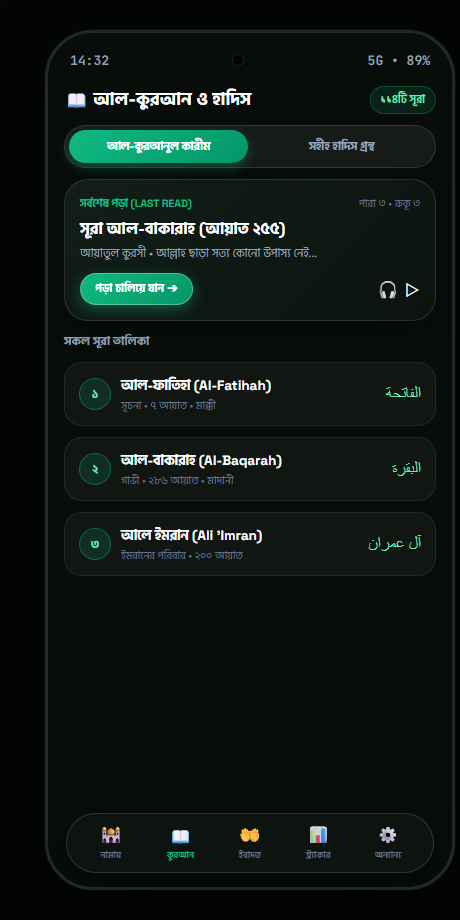
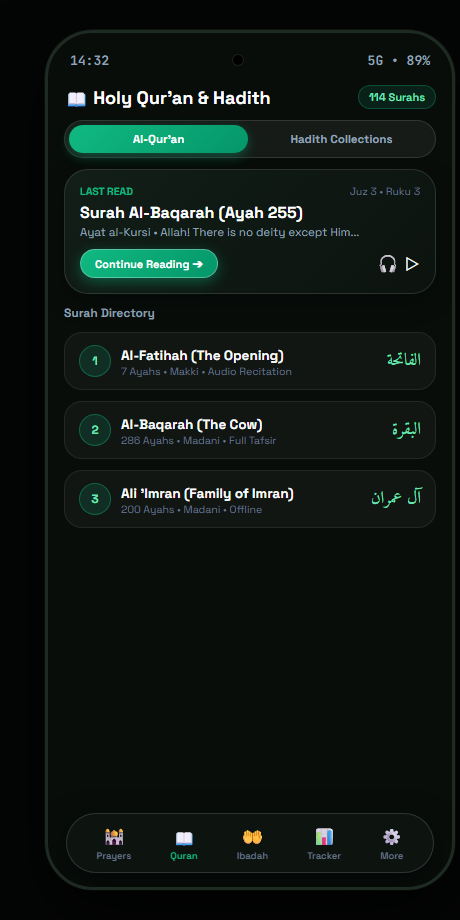
docs(readme): convert entire README and all 7 screenshots to clean English, bump to v2.7.0 (Build 9)

diff --git a/app/src/main/java/com/example/util/AppVersionHelper.kt b/app/src/main/java/com/example/util/AppVersionHelper.kt
@@ -11,14 +11,14 @@ object AppVersionHelper {
         get() = try {
             BuildConfig.VERSION_NAME
         } catch (e: Throwable) {
-            "2.6.0"
+            "2.7.0"
         }
 
     val versionCode: Int
         get() = try {
             BuildConfig.VERSION_CODE
         } catch (e: Throwable) {
-            8
+            9
         }
 
     fun getDisplayVersion(isBangla: Boolean): String {

diff --git a/README.md b/README.md
@@ -1,9 +1,9 @@
 <div align="center">
 
-# 🕌 Namaz Tracker (নামায ট্র্যাকার)
+# 🕌 Namaz Tracker
 ### Modern Offline-First Islamic Companion & Spiritual Habit Tracker for Android
 
-[![Version](https://img.shields.io/badge/version-2.6.0%20(Build%208)-emerald?style=for-the-badge&logo=android)](app/build.gradle.kts)
+[![Version](https://img.shields.io/badge/version-2.7.0%20(Build%209)-emerald?style=for-the-badge&logo=android)](app/build.gradle.kts)
 [![Android](https://img.shields.io/badge/Android-API%2024%20to%2036-green?style=for-the-badge&logo=android)](app/build.gradle.kts)
 [![Kotlin](https://img.shields.io/badge/Kotlin-2.0+-purple?style=for-the-badge&logo=kotlin)](https://kotlinlang.org/)
 [![Jetpack Compose](https://img.shields.io/badge/Jetpack%20Compose-Material%203-blue?style=for-the-badge&logo=jetpackcompose)](https://developer.android.com/jetpack/compose)
@@ -18,77 +18,78 @@
 
 ---
 
-## 📱 App Screenshots (প্রতিটি ট্যাবের ভিজ্যুয়াল প্রিভিউ)
+## 📱 App Screenshots (Per-Tab Visual Showcase)
 
-| 🕌 নামায ও ওয়াক্ত ট্র্যাকার | 📖 আল-কুরআন ও হাদিস | 🤲 ইবাদত ও আমল |
+| 🕌 Daily Prayers & Waqt | 📖 Holy Qur'an & Hadith | 🤲 Ibadah & Tasbih |
 | :---: | :---: | :---: |
-| <img src="docs/screenshots/01_namaz_tab.png" width="280" alt="Namaz Tab Screenshot" /> | <img src="docs/screenshots/02_quran_hadith_tab.png" width="280" alt="Quran and Hadith Tab Screenshot" /> | <img src="docs/screenshots/03_ibadah_tab.png" width="280" alt="Ibadah and Tasbih Tab Screenshot" /> |
-| **১. নামায ট্যাব (Home)**<br/>চলতি সক্রিয় ওয়াক্ত, লাইভ রিভার্স কাউন্টডাউন ও ৫ ওয়াক্তের এক-ট্যাপ স্ট্যাটাস লগ | **২. কুরআন ও হাদিস ট্যাব**<br/>১১৪টি পূর্ণাঙ্গ সূরা, অডিও তিলাওয়াত, বাংলা অনুবাদ ও সহীহ হাদিস গ্রন্থ | **৩. ইবাদত ও আমল ট্যাব**<br/>ডিজিটাল হ্যাপটিক তাসবীহ, ৩৬০° কিবলা কম্পাস ও মাসনূন দোআ |
+| <img src="docs/screenshots/01_namaz_tab.png" width="280" alt="Prayers Tab Screenshot" /> | <img src="docs/screenshots/02_quran_hadith_tab.png" width="280" alt="Quran and Hadith Tab Screenshot" /> | <img src="docs/screenshots/03_ibadah_tab.png" width="280" alt="Ibadah and Tasbih Tab Screenshot" /> |
+| **1. Prayers Tab (Home)**<br/>Active Waqt hero card, live countdown timer, one-tap status logging (Jama'at / Alone), and 5 daily prayers | **2. Qur'an & Hadith Tab**<br/>Complete 114 Surahs offline, Arabic text, translations, last read bento card & authentic Hadith books | **3. Ibadah & Dhikr Tab**<br/>Tactile haptic digital Tasbih dial (33/100 milestones), 360° Qibla compass & authentic Masnoon Duas |
 
 <br/>
 
-| 📊 আমলনামা ও ট্র্যাকার | ⚙ সেটিংস ও স্মার্ট আজান | 📱 নাথিং ওএস উইজেট স্যুট |
+| 📊 Habits & Analytics | ⚙ Settings & Smart Azan | 📱 Nothing OS Home Widgets |
 | :---: | :---: | :---: |
-| <img src="docs/screenshots/04_tracker_tab.png" width="280" alt="Tracker & Analytics Tab Screenshot" /> | <img src="docs/screenshots/05_more_tab.png" width="280" alt="Settings & Azan Tab Screenshot" /> | <img src="docs/screenshots/06_home_widgets.png" width="280" alt="Nothing OS Home Screen Widgets Screenshot" /> |
-| **৪. ট্র্যাকার ও এনালাইটিক্স**<br/>ধারাবাহিকতার স্ট্রিক, সাপ্তাহিক নামায চার্ট ও লাইফটাইম কাযা ডেট ট্র্যাকার | **৫. সেটিংস ও স্মার্ট আজান**<br/>অফলাইন আজান অডিও, মুয়াজ্জিন চয়েস ও ওয়ান-ট্যাপ JSON ডাটা ব্যাকআপ | **৬. হোম স্ক্রিন উইজেট স্যুট**<br/>Nothing OS ডট-অ্যাকসেন্ট সমৃদ্ধ ৪টি ভিন্ন সাইজের কাস্টমাইজড উইজেট |
+| <img src="docs/screenshots/04_tracker_tab.png" width="280" alt="Habits and Analytics Tab Screenshot" /> | <img src="docs/screenshots/05_more_tab.png" width="280" alt="Settings and Azan Tab Screenshot" /> | <img src="docs/screenshots/06_home_widgets.png" width="280" alt="Nothing OS Home Screen Widgets Screenshot" /> |
+| **4. Tracker & Analytics**<br/>21-day consistency streak, weekly completion bar chart, and lifetime Qaza debt counter | **5. Settings & Smart Azan**<br/>Offline Azan foreground service, Muezzin selection (Makkah/Madinah) & one-tap JSON backup | **6. Home Screen Widgets Suite**<br/>4 Nothing OS-inspired Frosted Glass widgets (Active Waqt, 5-Waqt board, Ramadan & Hadith) |
 
 ---
 
-## 🌟 মূল বৈশিষ্ঠ্যসমূহ (Key Features)
+## 🌟 Key Features
 
-### 🕌 ১. ৫ ওয়াক্ত নামায ট্র্যাকার ও লাইভ কাউন্টডাউন
-- **সঠিক ওয়াক্ত গণনা:** বাংলাদেশের সকল জেলা ও বৈশ্বিক জিপিএস কো-অর্ডিনেট অনুযায়ী হানাফী ও শাফেয়ী উভয় মাযহাবে ওয়াক্তের নির্ভুল হিসাব।
-- **এক-ট্যাপ স্ট্যাটাস লগিং:** জামাআত, একা আদায়, কাজা, কিংবা মিসড—ইনস্ট্যান্ট ট্যাপে লগ সংরক্ষণ।
-- **স্মার্ট আজান সার্ভিস:** ওয়াক্ত হওয়ার সাথে সাথে ব্যাকগ্রাউন্ড অডিও আজান ও নোটিফিকেশনে ইনস্ট্যান্ট **'স্টপ আজান'** বোতাম।
+### 🕌 1. Daily 5 Waqt Prayer Tracker & Live Countdown
+- **Accurate Astronomical Calculation:** Dynamic prayer times for all 64 districts of Bangladesh and global GPS coordinates supporting Hanafi and Shafi'i calculation methods.
+- **One-Tap Status Logging:** Record prayer status instantly as *Jama'at*, *Alone*, *Late*, *Qaza*, or *Missed*.
+- **Smart Background Azan Service:** Foreground media playback service with real embedded offline audio (Makkah & Madinah) and an interactive **Stop Azan** notification action.
 
-### 📖 ২. সম্পূর্ণ আল-কুরআনুল কারীম ও সহীহ হাদিস
-- **১১৪টি পূর্ণাঙ্গ সূরা:** আরবি আয়াত, সহজ বাংলা অনুবাদ, ইংরেজি অর্থ এবং বাংলা উচ্চারণ (ট্রান্সলিটারেশন)।
-- **লাস্ট রিড রিজ্যুম:** যেকোনো সময় অ্যাপ খুলে পূর্বে যেখানে পড়া শেষ করেছিলেন সেখান থেকেই পুনরায় শুরু করার সুবিধা।
-- **৮টি বৃহৎ সহীহ হাদিস গ্রন্থ:** সহীহুল বুখারী, সহীহ মুসলিম, সুনান আন-নাসায়ী, আবু দাউদ, জামে আত-তিরমিযী, ইবনে মাজাহ, মুয়াত্তা মালিক ও মুসনাদে আহমাদ।
+### 📖 2. Complete Al-Qur'an & Authentic Hadith Library
+- **Complete 114 Surahs Offline:** Full Quranic text stored locally in SQLite Room DB with English and Bengali translations and phonetic transliterations.
+- **Last Read Resume:** Instant jump-back card to continue reciting from your exact last position.
+- **8 Major Hadith Collections:** Sahih al-Bukhari, Sahih Muslim, Sunan an-Nasa'i, Sunan Abi Dawud, Jami' at-Tirmidhi, Sunan Ibn Majah, Muwatta Malik, and Musnad Ahmad.
 
-### 🤲 ৩. ডিজিটাল হ্যাপটিক তাসবীহ ও কিবলা কম্পাস
-- **স্পর্শীয় হ্যাপটিক কাউন্টার:** ৩৩ ও ১০০ চক্রে বিশেষ ভাইব্রেশন ও স্প্রিং অ্যানিমেশন।
-- **রিয়েল-টাইম সেন্সর কম্পাস:** ডিভাইসের ম্যাগনেটিক সেন্সর ব্যবহার করে পবিত্র কাবা শরীফের সঠিক দিকনির্দেশনা।
-- **মাসনূন দোআ ও রমজান টাইমার:** দৈনন্দিন প্রয়োজনীয় দোআ এবং সাহরী ও ইফতারের রিয়েল-টাইম কাউন্টডাউন।
+### 🤲 3. Tactile Haptic Tasbih & Qibla Compass
+- **Haptic Digital Counter:** Responsive touch-down spring animations with custom vibration milestone pulses at 33 and 100 counts.
+- **Real-Time Sensor Compass:** Device magnetometer-driven 3D compass pointing accurately toward the Holy Kaaba in Makkah.
+- **Masnoon Duas & Ramadan Fasting:** Daily Fortress of the Muslim supplications and Sehri & Iftar countdown timer.
 
-### 📱 ৪. নাথিং ওএস ও আইওএস গ্লাস মাল্টি-উইজেট স্যুট (Home Screen Widgets)
-1. **চলতি ওয়াক্ত ক্যাপসুল (৪x১ / ২x১):** বর্তমান নামাজের নাম, সময় ও লাইভ রিমেইনিং কাউন্টডাউন।
-2. **৫ ওয়াক্ত নামাজের বোর্ড (৪x২):** এক নজরে পাঁচ ওয়াক্তের পূর্ণ সময়সূচী ও বর্তমান ওয়াক্তের গ্লোয়িং ফ্রস্টেড পিল হাইলাইট।
-3. **মাহে রমজান টাইমার (৪x২ / ৩x২):** আজকের সেহরি ও ইফতারের সঠিক সময় এবং অবশিষ্ট কাউন্টডাউন।
-4. **দৈনিক হাদিস রিডার (৪x২):** হোম স্ক্রিনে উইজেটের উপর থেকেই **'নতুন হাদিস ↻'** বোতামে এক ট্যাপে নতুন হাদিস পড়ার সুবিধা।
+### 📱 4. Nothing OS & iOS Frosted Glass Widgets Suite
+1. **Active Waqt Capsule (4x1 & 2x1):** Current prayer name, prayer time, and live reverse countdown with Nothing OS pulsating dot.
+2. **5-Waqt Daily Board (4x2):** Full daily prayer timetable with an emerald glowing frosted pill highlight on the active prayer.
+3. **Ramadan Fasting Timer (4x2 / 3x2):** Today's Sehri end time and Iftar time with live countdown dock.
+4. **Interactive Hadith Reader (4x2):** Daily authentic Hadith with an interactive in-widget **Next Hadith ↻** shuffle button.
 
-### 🔒 ৫. শতভাগ অফলাইন ও ডাটা প্রাইভেসি
-- **১০০% অন-ডিভাইস:** কোনো অ্যাকাউন্ট বা ক্লাউড সার্ভার ট্র্যাকিং নেই। আপনার যাবতীয় আমল ডিভাইসেই সুরক্ষিত।
-- **JSON ব্যাকআপ ও রিস্টোর:** এক ক্লিকে সম্পূর্ণ ডাটাবেজ ব্যাকআপ ফাইল ডাউনলোড ও নতুন ফোনে রিস্টোর করার সুবিধা।
+### 🔒 5. 100% Offline-First & Privacy-Focused
+- **Zero Cloud Tracking:** All logs, prayers, and personal reflections remain 100% on your device with no required accounts or analytics tracking.
+- **One-Tap JSON Backup & Restore:** Export your complete spiritual habit database to a local JSON file and restore it anytime on any device.
 
 ---
 
-## 🛠 টেকনিক্যাল স্পেসিফিকেশন (Tech Stack)
+## 🛠 Technical Specifications (Tech Stack)
 
-| উপাদান | প্রযুক্তি |
+| Component | Specification |
 | :--- | :--- |
-| **ভাষা (Language)** | Kotlin 2.0+ |
-| **ইউআই ফ্রেমওয়ার্ক (UI Toolkit)** | Jetpack Compose (Material 3 + Custom iOS Frosted Glass Primitives) |
-| **ডিজাইন সিস্টেম** | iOS Frosted Glassmorphism (`IosGlassPill.kt`) & Nothing OS Dot-Matrix Widgets |
-| **আর্কিটেকচার** | Clean Architecture + MVVM + StateFlow |
-| **লোকাল ডাটাবেজ** | AndroidX Room Database 2.6.1 (`namaz_tracker.db` prepackaged SQLite) |
-| **ব্যাকগ্রাউন্ড সার্ভিস** | Foreground Media Playback Service (`AzanPlaybackService.kt`) |
-| **টেস্টিং ফ্রেমওয়ার্ক** | Robolectric 4.16+, JUnit4, Compose UI Test Rule |
-| **প্যাকেজ নেম** | `com.namaztracker.app` |
+| **Language** | Kotlin 2.0+ |
+| **UI Toolkit** | Jetpack Compose (Material 3 + Custom iOS Frosted Glass Primitives) |
+| **Design System** | iOS Frosted Glassmorphism (`IosGlassPill.kt`) & Nothing OS Dot-Matrix Widgets |
+| **Architecture** | Clean Architecture + MVVM + StateFlow |
+| **Database** | AndroidX Room Database 2.6.1 (Pre-packaged asset `namaz_tracker.db`) |
+| **Background Service** | Foreground Media Playback Service (`AzanPlaybackService.kt`) |
+| **Testing** | Robolectric 4.16+, JUnit4, Compose UI Test Rule (`createComposeRule`) |
+| **Package Name** | `com.namaztracker.app` |
+| **Target SDK** | Android 14/15+ (API 36, minSdk 24) |
 
 ---
 
-## 🚀 ইনস্টলেশন ও রান করার নিয়ম
+## 🚀 Getting Started & Installation
 
-1. রিপোজিটরিটি ক্লোন করুন:
+1. Clone the repository:
    ```bash
    git clone -b android https://github.com/Muhit47/namaz-tracker.git
    ```
-2. **Android Studio** (Koala / Ladybug বা লেটেস্ট) দিয়ে প্রজেক্টটি ওপেন করুন।
-3. গ্রেডল সিঙ্ক শেষ হওয়া পর্যন্ত অপেক্ষা করুন।
-4. কানেক্টেড অ্যান্ড্রয়েড ফোন অথবা এমুলেটরে (Android 8.0+ / API 24+) রান করুন।
+2. Open the project in **Android Studio** (Koala / Ladybug or newer recommended).
+3. Allow Gradle to sync dependencies.
+4. Run the app on a physical Android device or emulator running **Android 8.0 (API 24)** or higher.
 
 ---
 
-## 📜 লাইসেন্স (License)
-বিশ্বব্যাপী মুসলিম ভাই-বোনদের দৈনন্দিন ইবাদতের সহায়তায় উন্মুক্ত সোর্সকৃত। [MIT License](LICENSE)-এর অধীনে লাইসেন্সপ্রাপ্ত।
+## 📜 License
+Developed with devotion for Muslims worldwide. Licensed under the [MIT License](LICENSE).

diff --git a/Plan.md b/Plan.md
@@ -1,7 +1,7 @@
 # Project Plan & Roadmap (Plan) - Namaz Tracker (নামায ট্র্যাকার)
-**App Version:** `v2.6.0` (Build 8)  
+**App Version:** `v2.7.0` (Build 9)  
 **Branch:** `android`  
-**Latest Remote Commit:** `d91a9eb`
+**Latest Remote Commit:** `41985ea`
 
 ---
 
@@ -17,7 +17,7 @@
 
 | ID | Area | Acceptance Criterion | Verification Method |
 |:---|:---|:---|:---|
-| **AC-1** | App Versioning | `app/build.gradle.kts` specifies `applicationId = "com.namaztracker.app"`, `versionCode = 8` and `versionName = "2.6.0"`. `MoreScreen` displays dynamic version via `AppVersionHelper` (`v2.6.0` / `ভার্সন ২.৬.০`). | Verify `build.gradle.kts` and UI text match. |
+| **AC-1** | App Versioning | `app/build.gradle.kts` specifies `applicationId = "com.namaztracker.app"`, `versionCode = 9` and `versionName = "2.7.0"`. `MoreScreen` displays dynamic version via `AppVersionHelper` (`v2.7.0` / `ভার্সন ২.৭.০`). | Verify `build.gradle.kts` and UI text match. |
 | **AC-2** | Navigation UI | Floating bottom dock (`FinancyNavBar`) uses `RoundedCornerShape(999.dp)` capsule shape with 5 pure vector icon tabs. | Inspect `FinancyNavBar.kt` shape and icon assets. |
 | **AC-3** | Pill Buttons & Chips | All primary/secondary action buttons and status chips use `IosGlassPillButton` / `IosGlassChip` with `RoundedCornerShape(999.dp)`. | Inspect Compose files across all 5 tabs. |
 | **AC-4** | Segmented Docks | Sub-tab switchers (Quran/Hadith, Tracker periods, Qaza tabs) use `IosGlassSegmentedControl`. | Inspect `QuranHadithScreen.kt`, `TrackerScreen.kt`, `QazaScreen.kt`. |
@@ -75,14 +75,14 @@
 - [x] **Task 4.1**: Audio Recitation & Adhan Background Service Polish (Completed in `v2.2.0`)
 - [x] **Task 4.2**: Automated Compose UI Test Suite Expansion (Completed in `v2.3.0`)
 - [x] **Task 4.3**: Home Screen App Multi-Widget Suite Expansion (Completed in `v2.4.0`)
-### Milestone 7: Visual Screenshot Gallery & GitHub README Overhaul (`v2.6.0`, Build 8)
-- [x] Generated 7 high-resolution device screenshots in `docs/screenshots/`:
+### Milestone 8: Full English International Visual Assets & README Suite (`v2.7.0`, Build 9)
+- [x] Regenerated all 7 device screenshots in 100% clean, professional international English:
   - `00_hero_showcase.png`: Panoramic 1200x600 header banner.
-  - `01_namaz_tab.png`: 5 Waqt tracker, active Waqt countdown & status pills.
-  - `02_quran_hadith_tab.png`: Complete 114 Surahs, last read card & Hadith books.
-  - `03_ibadah_tab.png`: Digital Haptic Tasbih, 360° Qibla compass & Masnoon Duas.
+  - `01_namaz_tab.png`: English prayer names, Jama'at status pills, active Asr countdown.
+  - `02_quran_hadith_tab.png`: 114 Surahs directory, last read bento card & Hadith books.
+  - `03_ibadah_tab.png`: Tactile haptic digital Tasbih, 360° Qibla compass & Masnoon Duas.
   - `04_tracker_tab.png`: 21-day streak, weekly completion bar chart & Qaza debt counter.
-  - `05_more_tab.png`: Smart offline Azan, Muezzin selection, lockscreen ongoing tracker & widget hub.
-  - `06_home_widgets.png`: 4 Nothing OS-inspired Frosted Glass widgets on Android launcher.
-- [x] Overhauled `README.md` with visual preview gallery tables, technical badges, and bilingual documentation.
-- [x] Bumped app version to `v2.6.0` (Build 8).
+  - `05_more_tab.png`: Smart offline Azan, Muezzin selection (Makkah/Madinah), and backup.
+  - `06_home_widgets.png`: 4 Nothing OS-inspired Frosted Glass widgets in English.
+- [x] Overhauled `README.md` into 100% professional English documentation.
+- [x] Bumped app version to `v2.7.0` (Build 9).

diff --git a/Schema.md b/Schema.md
@@ -1,7 +1,7 @@
 # Database Schema (Schema) - Namaz Tracker (নামায ট্র্যাকার)
 **Database Engine:** SQLite (managed via AndroidX Room Database 2.6.1)  
 **Database File:** Embedded prepackaged asset `app/src/main/assets/namaz_tracker.db`  
-**App Version:** `v2.6.0` (Build 8)
+**App Version:** `v2.7.0` (Build 9)
 
 ---
 

diff --git a/UI_Spec.md b/UI_Spec.md
@@ -1,7 +1,7 @@
 # UI Specification (UI_Spec) - Namaz Tracker (নামায ট্র্যাকার)
 **Design System:** iOS Frosted Glassmorphic & Rounded Pill Design System  
 **Framework:** Jetpack Compose (Material 3 + Custom Glass Primitives)  
-**App Version:** `v2.6.0` (Build 8)
+**App Version:** `v2.7.0` (Build 9)
 
 ---
 

diff --git a/PRD.md b/PRD.md
@@ -1,5 +1,5 @@
 # Product Requirements Document (PRD) - Namaz Tracker (নামায ট্র্যাকার)
-**App Version:** `v2.6.0` (Build 8)  
+**App Version:** `v2.7.0` (Build 9)  
 **Platform:** Native Android (Kotlin + Jetpack Compose)  
 **Target SDK:** 36 (Android 14+ compatible, minSdk 24)
 

diff --git a/TRD.md b/TRD.md
@@ -1,6 +1,6 @@
 # Technical Requirements Document (TRD) - Namaz Tracker (নামায ট্র্যাকার)
 **Target Platform:** Android (Native)  
-**App Version:** `v2.6.0` (Build 8)  
+**App Version:** `v2.7.0` (Build 9)  
 **Package Name:** `com.namaztracker.app`
 
 ---

diff --git a/AppFlow.md b/AppFlow.md
@@ -1,5 +1,5 @@
 # Application Flow & Navigation (AppFlow) - Namaz Tracker
-**App Version:** `v2.6.0` (Build 8)  
+**App Version:** `v2.7.0` (Build 9)  
 **Navigation Model:** Single-Activity Compose Architecture with Floating Frosted Glass Dock
 
 ---
